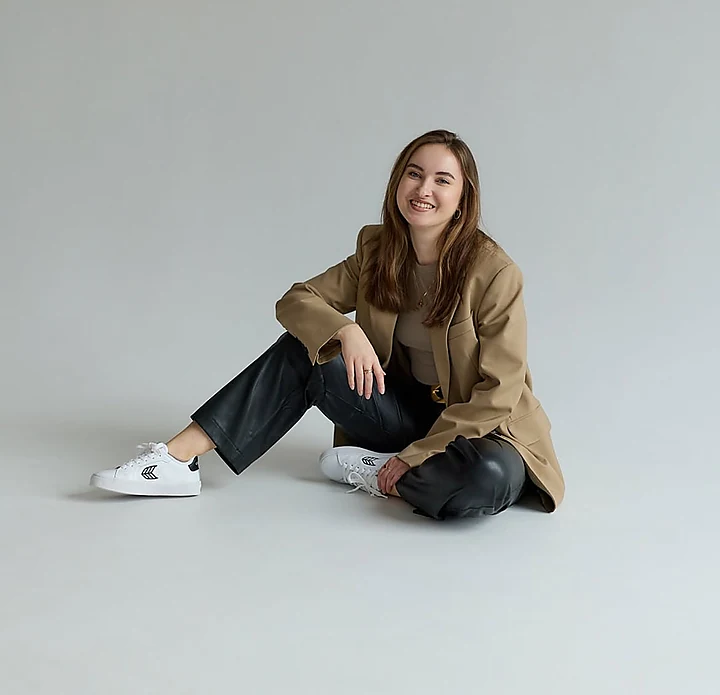
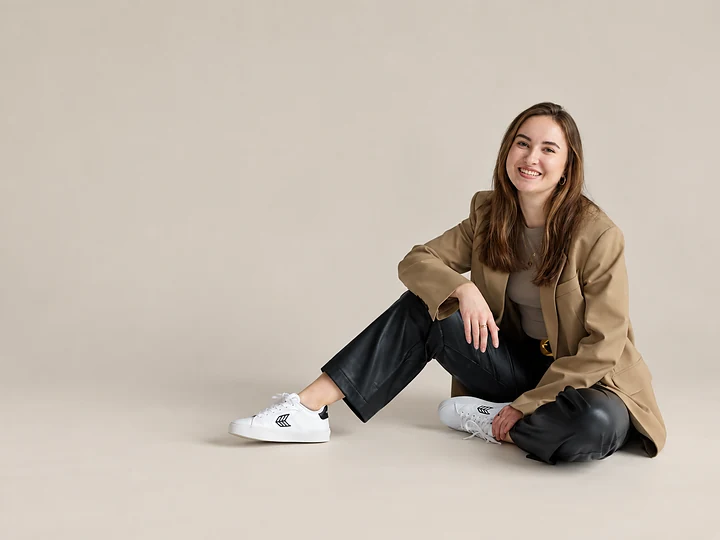
Swap in the supplied hero photograph
New source is 1448x1086 on a warm beige sweep with the subject on the right
and the left third empty — composed for exactly the text block that sits
there. Replaces the 1170x1130 Instagram crop on a cold grey studio wall.

Upscaling improves where it matters: laptop at 2x goes 2.42x -> 1.96x,
monitor 3.24x -> 2.62x. Added a 960px step between the 720 and full files
so mid-size viewports stop over-fetching.

Dropped the sepia filter and the sharpening pass — the new file is already
warm and sharp, and both were compensating for the old one.

Framing is now per breakpoint. The subject sits right of centre, so a
centred object-position put her outside the narrow crop a phone gets:
62% 52% on desktop, 72% 46% below 60rem.

Tried the obvious thing first — light scrim, ink text, let the beige show —
and measured it: 4.16:1 on desktop and 1.22:1 on a phone, where the crop
puts the headline straight over her hair. Reverted. The scrim stays dark but
is now warm brown rather than olive, so more of the photograph's warmth
survives; swept its strength and took the lightest setting with margin
(worst case 5.55:1, at 1280x800). OG image rebuilt to match.

Claude-Session: https://claude.ai/code/session_011amcH3ihyfB5WMsCnCviTx

diff --git a/pragnacwiecej/index.html b/pragnacwiecej/index.html
@@ -33,7 +33,7 @@
 
 <link rel="preload" as="font" type="font/woff2" href="assets/fonts/lora-normal-400_700-latin-ext.woff2" crossorigin>
 <link rel="preload" as="font" type="font/woff2" href="assets/fonts/poppins-normal-400-latin-ext.woff2" crossorigin>
-<link rel="preload" as="image" href="img/hero.webp" imagesrcset="img/hero-720.webp 720w, img/hero.webp 1170w" imagesizes="100vw" fetchpriority="high">
+<link rel="preload" as="image" href="img/hero.webp" imagesrcset="img/hero-720.webp 720w, img/hero-960.webp 960w, img/hero.webp 1448w" imagesizes="100vw" fetchpriority="high">
 <link rel="stylesheet" href="assets/fonts.css">
 <link rel="stylesheet" href="assets/style.css">
 
@@ -142,9 +142,10 @@
   <section class="hero" id="gora">
     <div class="hero__kadr">
       <img class="hero__foto" src="img/hero.webp"
-           srcset="img/hero-720.webp 720w, img/hero.webp 1170w" sizes="100vw"
-           width="1170" height="1130" fetchpriority="high" decoding="async"
-           alt="Iga Pawlak siedząca na podłodze w jasnym studio">
+           srcset="img/hero-720.webp 720w, img/hero-960.webp 960w, img/hero.webp 1448w"
+           sizes="100vw"
+           width="1448" height="1086" fetchpriority="high" decoding="async"
+           alt="Iga Pawlak siedząca na podłodze na tle ciepłego beżu">
       <div class="hero__zaslona" aria-hidden="true"></div>
 
       <div class="obszar">

diff --git a/pragnacwiecej/assets/style.css b/pragnacwiecej/assets/style.css
@@ -281,15 +281,14 @@ h4 { font-size: var(--t-h4); }
 }
 .hero__foto {
   position: absolute; inset: 0; z-index: -2;
-  width: 100%; height: 100%; object-fit: cover; object-position: 50% 30%;
-  filter: saturate(.94) sepia(.07) contrast(1.02);
+  width: 100%; height: 100%; object-fit: cover;
+  object-position: 62% 52%;   /* sylwetka jest po prawej stronie kadru */
 }
 .hero__zaslona {
   position: absolute; inset: 0; z-index: -1;
   background:
-    linear-gradient(to top, rgb(30 32 21 / .76) 0%, rgb(30 32 21 / .32) 52%, rgb(30 32 21 / .06) 100%),
-    linear-gradient(to right, rgb(30 32 21 / .54) 0%, rgb(30 32 21 / 0) 58%),
-    linear-gradient(rgb(65 89 60 / .12), rgb(65 89 60 / .12));
+    linear-gradient(to top, rgb(44 34 24 / .84) 0%, rgb(44 34 24 / .48) 55%, rgb(44 34 24 / .08) 100%),
+    linear-gradient(to right, rgb(44 34 24 / .70) 0%, rgb(44 34 24 / .30) 55%, rgb(44 34 24 / 0) 82%);
 }
 
 .hero__tresc { max-width: 34rem; }
@@ -756,6 +755,7 @@ html.bez-js .pytanie[open] .pytanie__odpowiedz { animation: odsloniecie .4s var(
   .przyciski .btn { width: 100%; }
   .manifest__polaroid { display: none; }
   .hero__kadr { min-height: calc(100svh - 12px); }
+  .hero__foto { object-position: 72% 46%; }
 }
 
 /* ==========================================================================
